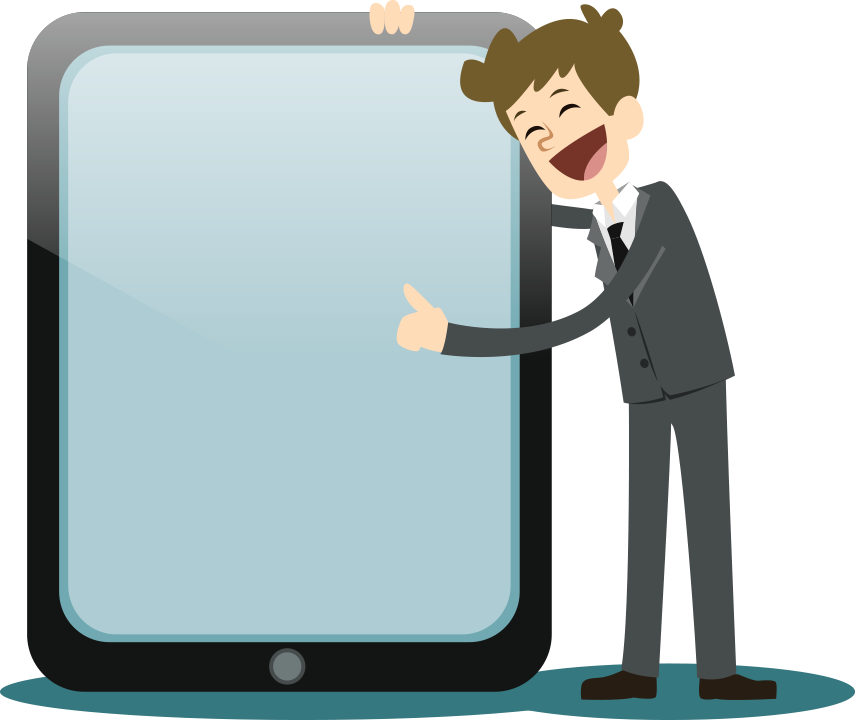
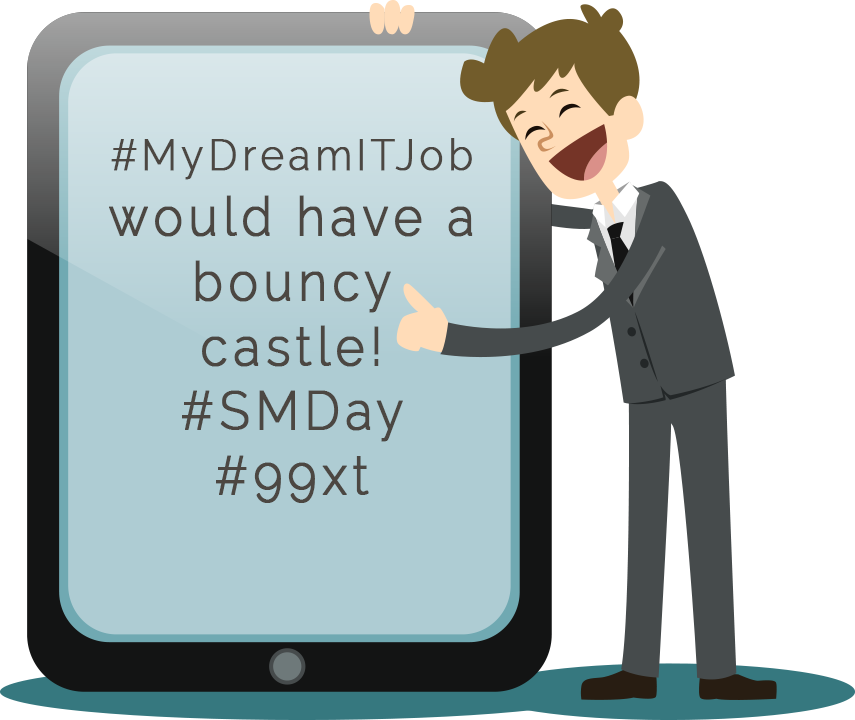
FIXED STIMULATER IMAGE TEXT INPUT

diff --git a/index.html b/index.html
@@ -7,10 +7,10 @@
     <meta name="viewport" content="width=device-width, initial-scale=1">
     <link rel="image_src" href="http://www.iappreciate.lk/img/thumb.jpg" />
     <meta property="og:image" content="http://www.iappreciate.lk/img/thumb.jpg" />
-    <meta property="og:url" content="http://www.iappreciate.lk" />
     <meta property="og:title" content="#MyDreamITjob" />
-    <meta property="og:description" content="Appreciate awesome efforts of people who have made a change in their own way" />
     <title>#MyDreamITjob</title>
+    <link rel="shortcut icon" type="image/png" href="/img/favicon.ico"/>
+    <link rel="shortcut icon" type="image/png" href="/img/favicon.ico"/>
     <!-- Bootstrap -->
     <link rel="stylesheet" href="https://cdnjs.cloudflare.com/ajax/libs/font-awesome/4.6.3/css/font-awesome.min.css">
     <link href="css/bootstrap.min.css" rel="stylesheet">
@@ -64,7 +64,9 @@
             <div class="container">
                 <div class="row">
                     <div class="col-md-6" style="padding-top:15%">
-                        <h1 style="color:#00c7ce; font-size:80px"> <span class="headerthin">What is your</span><br><b>Perfect<br>IT Job?</b></h1>
+                        <h1 style="color:#00c7ce; font-size:80px"> <span class="headerthin">What is your</span><br><b>Perfect<br>IT Job?</b></h1> 
+                        <br>
+                        <h2>#MyDreamITjob #SMday #99XT</h2>
                     </div>
                     <div class="col-md-4">
                         <img src="img/Vector%20Smart%20Object%20with%20logo.png" alt="Man on buld bector" height="125%" width="125%">
@@ -86,10 +88,11 @@
                 </div>
                 <div class="col-md-2"></div>
                 <div class="col-md-5">
-                    <div class="form-group">
-                        <textarea class="form-control" rows="15" id="comment" style="border-color:#00c7ce"></textarea>
+                    <div class="form-group" style="margin-top:25%;">
+                        <textarea class="form-control" rows="10" id="comment" style="border-color:#00c7ce"></textarea>
                         <br>
                         <button class="btn btn-success">post</button>
+                        
                     </div>
                 </div>
             </div>
@@ -102,7 +105,7 @@
 
             <div class="container steps-section" style="padding-top:10%;">
                 <div class="row">
-                    <h2>What others said ;)</h2>
+                    <h2 class="heading-post">What others said ;)</h2>
                     <div class="col-md-6">
                         <div class="comment-boxes" id="post-1"> post here</div>
                         <div class="comment-boxes" id="post-2"> post here</div>

diff --git a/css/smday.css b/css/smday.css
@@ -7,19 +7,23 @@ body , html {
 	-moz-osx-font-smoothing: grayscale;
     text-shadow: 1px 1px 1px rgba(0,0,0,0.004);
 }
-.h1{
+.heading-post{
     text-align: center;
-    
+    font-family: 'Raleway',sans-serif;
 }
 .comment-boxes {
- width: 500px;
- height: 100px;
- -webkit-transform: skew(20deg);
-    -moz-transform: skew(20deg);
-      -o-transform: skew(20deg);
- background: #00c7ce;
+     width: 500px;
+     height: 100px;
+     -webkit-transform: skew(20deg);
+        -moz-transform: skew(20deg);
+          -o-transform: skew(20deg);
+    background: #00c7ce;
     padding:5%;
-margin: 2%;
+    margin: 2%;
+    text-align: center;
+    color: aliceblue;
+    font-size: 150%;
+    font-family: 
 
 }
 
